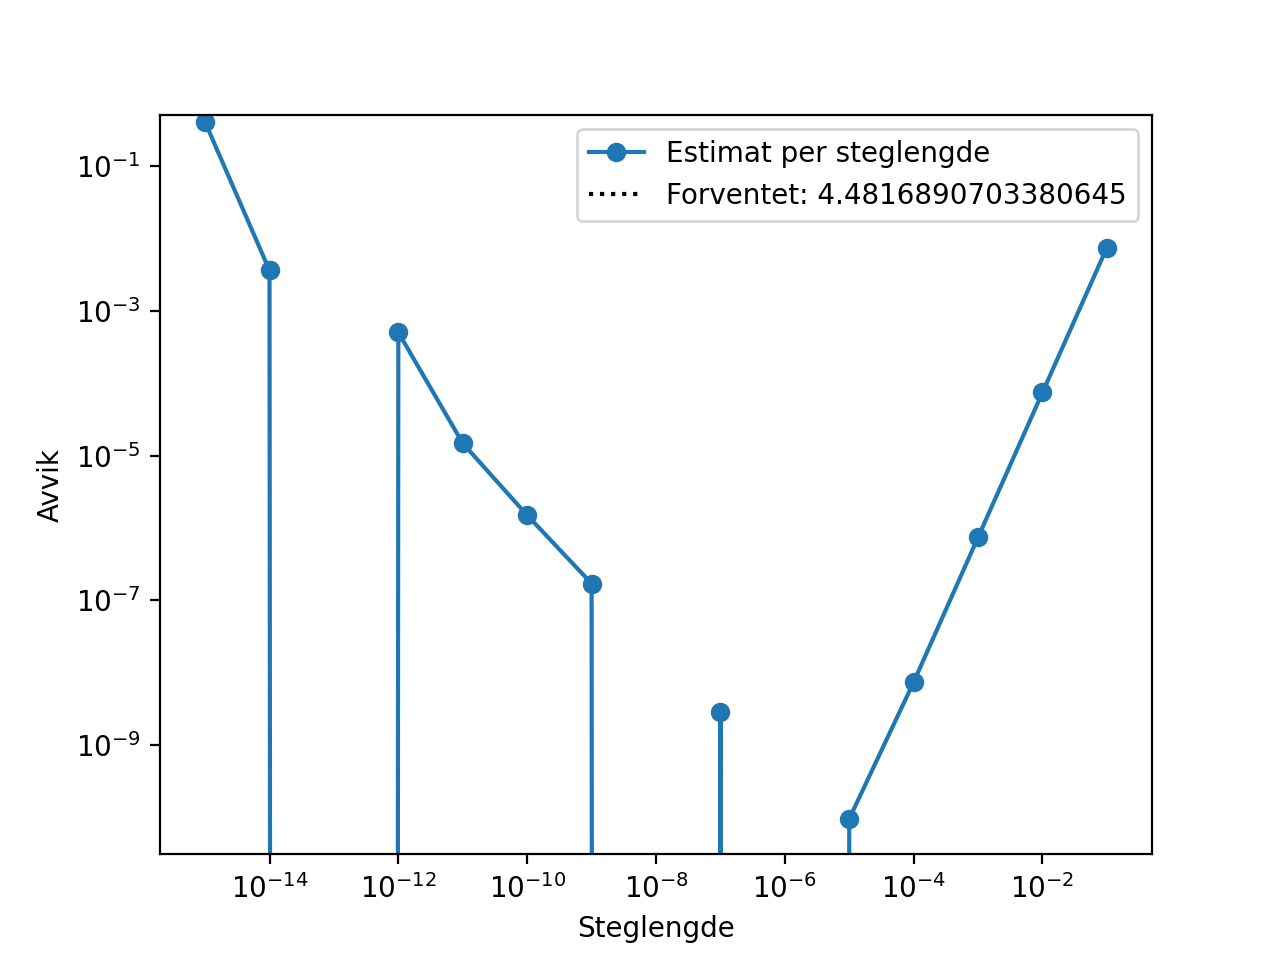
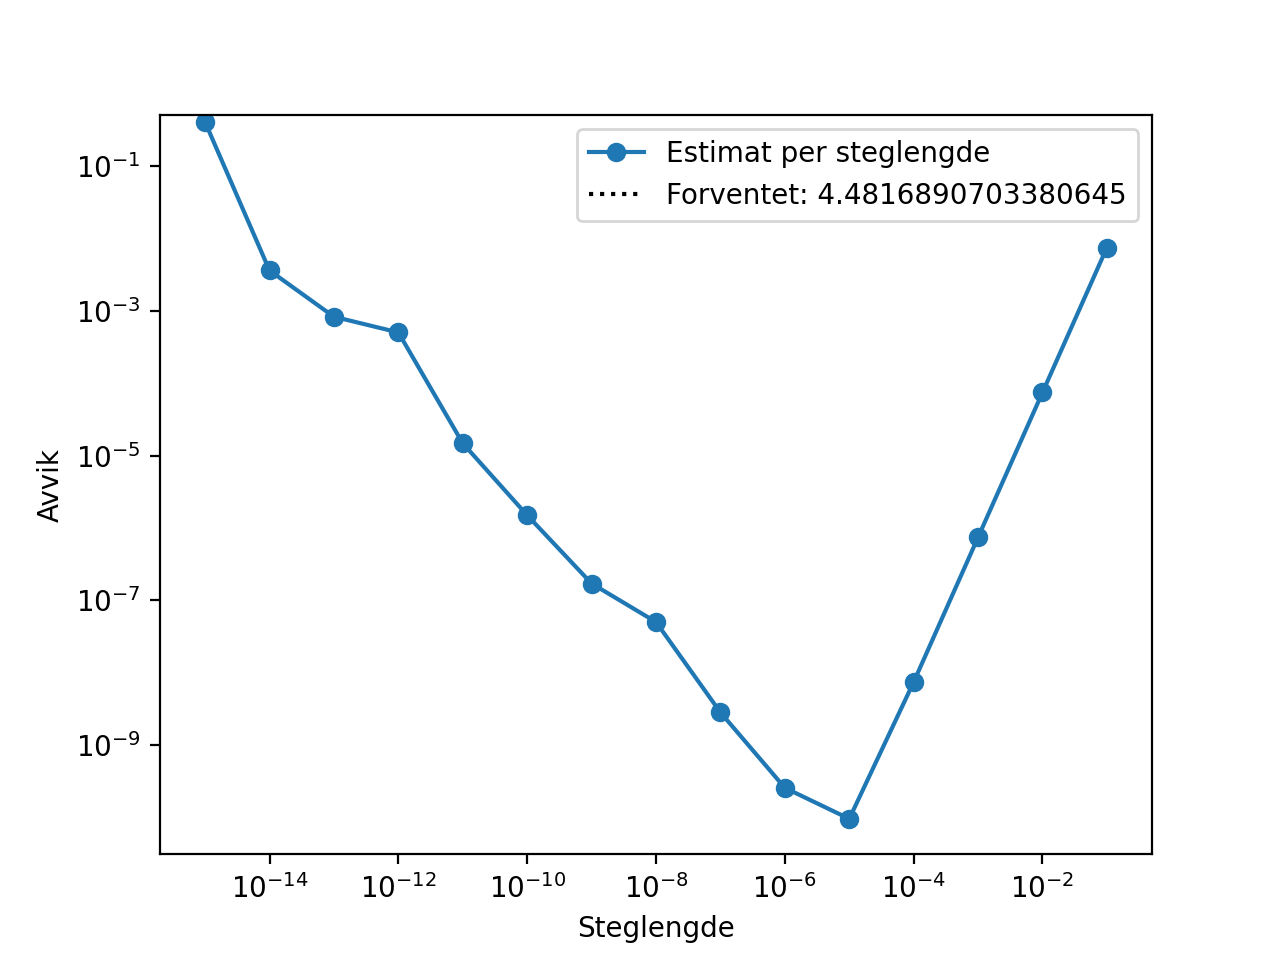
Fiksa litt plotting

diff --git a/oppg3.py b/oppg3.py
@@ -1,13 +1,12 @@
 import numpy as np
 import matplotlib.pyplot as plt
 
-expected = np.exp(1.5)  # exact derivative at x=1.5 is also e^(1.5)
+expected = np.exp(1.5)
 
 steps = []
 results = []
 
-# Loop over powers of 10 for the step size
-for i in range(1, 17):
+for i in range(1, 15):
     h = 1/(10**i)
     steps.append(h)
     approx = (-np.exp(1.5 + 2*h) 
@@ -18,23 +17,21 @@ for i in range(1, 17):
     print(f"Step: {h}, approx: {approx}")
 
 plt.figure()
-plt.loglog(steps, results, marker="o", label="Five-point derivative estimate")
-plt.hlines(expected, steps[0], steps[-1], linestyle="dotted", color="black", label=f"Expected: {expected}")
-plt.xlabel("Step size (h)")
-plt.ylabel("Approximate derivative")
-plt.title("Five-point derivative of e^x at x=1.5")
-plt.ylim(min(results) - 0.1, max(results) + 0.1)
+plt.loglog(steps, results, marker="o", label="Estimat per steglengde")
+plt.hlines(expected, steps[0], steps[-1], linestyle="dotted", color="black", label=f"Analytisk: {expected}")
+plt.xlabel("Steglengde (h)")
+plt.ylabel("Estimat")
+plt.ylim(min(results) - 0.001, max(results) + 0.001)
 plt.legend()
-plt.savefig("oppg3_values.png", dpi=200)
+plt.savefig("oppg3_1", dpi=200)
 plt.show()
 
-errors = np.array(results) - expected
+errors = abs(np.array(results) - expected)
 
 plt.figure()
-plt.loglog(steps, np.abs(errors), marker="o", label="Absolute error")
-plt.xlabel("Step size (h)")
+plt.loglog(steps, np.abs(errors), marker="o", label="avvik per steglengde")
+plt.xlabel("Steglengde (h)")
 plt.ylabel("Error = |approx - exact|")
-plt.title("Error for five-point derivative of e^x at x=1.5")
 plt.legend()
-plt.savefig("oppg3_error.png", dpi=200)
+plt.savefig("oppg3_2", dpi=200)
 plt.show()

diff --git a/oppg2.py b/oppg2.py
@@ -24,10 +24,10 @@ plt.legend()
 plt.savefig("oppg2_1", dpi=200)
 plt.show()
 
-results = [a - np.exp(1.5) for a in results]
+results = [abs(a - np.exp(1.5)) for a in results]
 
 plt.figure()
-plt.loglog(steps[:-1], results[:-1], marker="o", label="Estimat per steglengde")
+plt.loglog(steps[:-1], results[:-1], marker="o", label="Avvik per steglengde")
 plt.hlines(np.exp(1.5), steps[0], steps[-1], linestyle="dotted", color="black", label=f"Forventet: {np.exp(1.5)}")
 plt.xlabel("Steglengde")
 plt.ylabel("Avvik")
